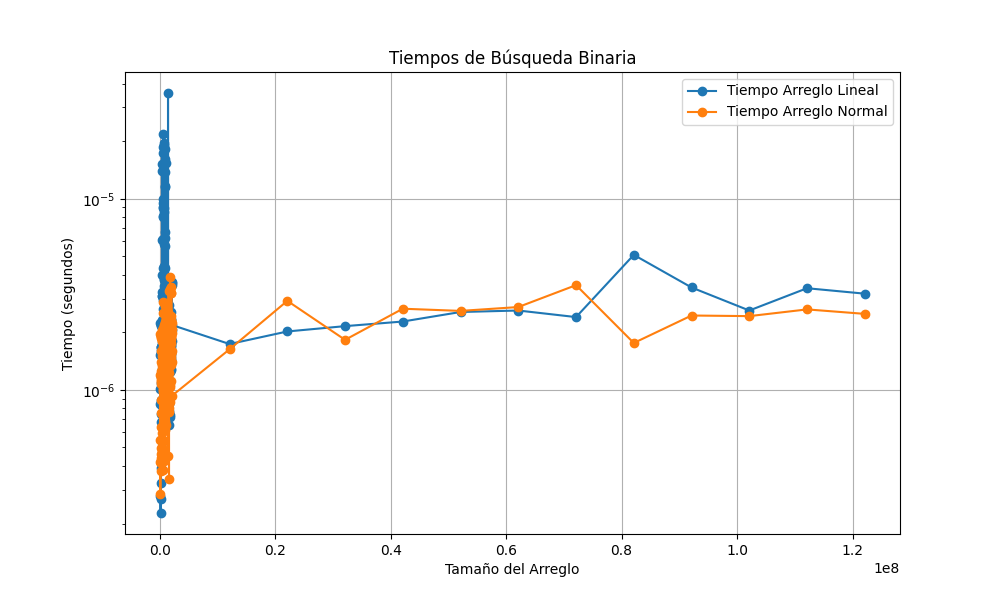
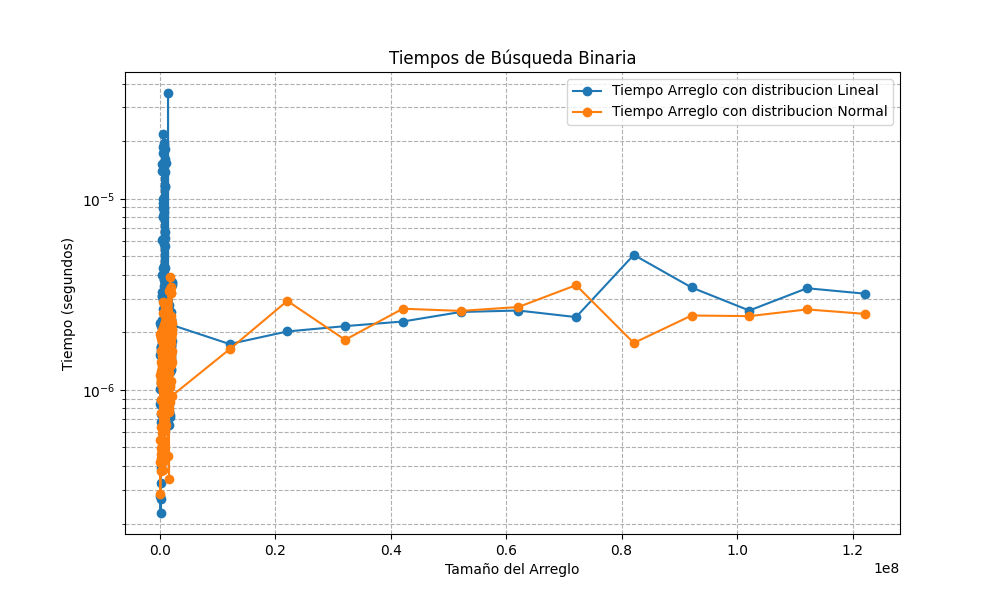
mas experimentacion

Changed region(s): [[0.558, 0.12, 0.837, 0.21]]

diff --git a/graficosExplicitArrray.py b/graficosExplicitArrray.py
@@ -26,26 +26,25 @@ except ValueError:
 
 # Crear la gráfica para tiempos de búsqueda
 plt.figure(figsize=(10, 6))
-plt.plot(sizes, times_lineal, label='Tiempo Arreglo Lineal', marker='o')
-plt.plot(sizes, times_normal, label='Tiempo Arreglo Normal', marker='o')
+plt.plot(sizes, times_lineal, label='Tiempo Arreglo con distribucion Lineal', marker='o')
+plt.plot(sizes, times_normal, label='Tiempo Arreglo con distribucion Normal', marker='o')
 plt.title('Tiempos de Búsqueda Binaria')
 plt.xlabel('Tamaño del Arreglo')
 plt.ylabel('Tiempo (segundos)')
 plt.yscale('log') 
 plt.legend()
-plt.grid(True)
+plt.grid(True, which="both", ls="--")
 plt.savefig('GraficosAExplicitos_tiempos_busqueda_Explicit.png')  # Guardar como imagen
 plt.close()
 
 # Crear la gráfica para espacios utilizados en kilobytes
 plt.figure(figsize=(10, 6))
-plt.plot(sizes, space_lineal, label='Espacio Arreglo Lineal (KB)', marker='o', markersize=4, linestyle='-')
-plt.plot(sizes, space_normal, label='Espacio Arreglo Normal (KB)', marker='o', markersize=4, linestyle='-')
+plt.plot(sizes, space_lineal, label='Espacio Arreglo con distribucion Lineal (KB)', marker='o', markersize=4, linestyle='-')
+plt.plot(sizes, space_normal, label='Espacio Arreglo con distribucion Normal (KB)', marker='o', markersize=4, linestyle='-')
 plt.title('Espacios Utilizados por los Arreglos')
 plt.xlabel('Tamaño del Arreglo')
-plt.ylabel('Espacio (KB)')
 plt.yscale('log') 
 plt.legend()
-plt.grid(True)
+plt.grid(True, which="both", ls="--")
 plt.savefig('GraficosAExplicitos_espacios_utilizados.png')  # Guardar como imagen
 plt.close()
